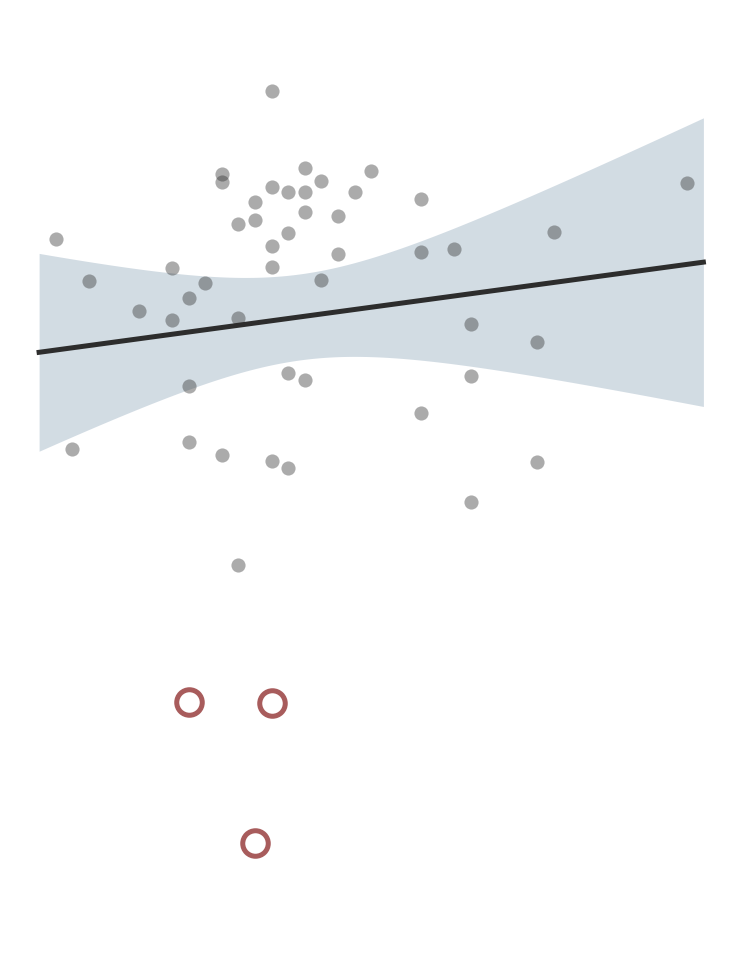
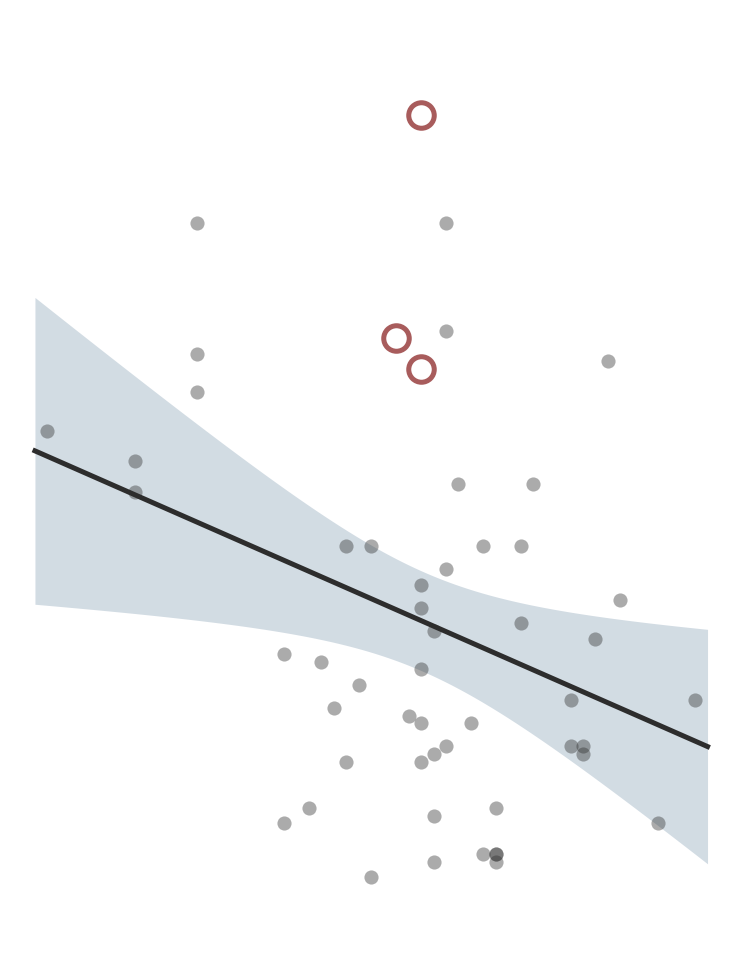
midterm-finishing: worked example on the critics'-score question, X = director's age when the game came out; from econ-lecture-material 1e3880f

diff --git a/midterm-finishing/index.html b/midterm-finishing/index.html
@@ -1,7 +1,7 @@
 <!doctype html>
 <html lang="en">
 <head>
-<meta name="deck-build" content="public; speaker notes removed by strip_notes.py; out=a6a7ef0a42e34b178bf31933927b82fd">
+<meta name="deck-build" content="public; speaker notes removed by strip_notes.py; out=ca26870376b5714d156b74afdde64088">
   <meta charset="utf-8">
   <meta name="viewport" content="width=device-width, initial-scale=1.0">
   <title>Finishing Your Midterm</title>
@@ -37,19 +37,19 @@
         <p style="font-size: 12pt; color: var(--muted-color); font-weight: 400; font-style: italic; line-height: 1.8;">Department of Economics<br>Northeastern University</p>
       </div>
     </div>
-    <div style="overflow: hidden;"><img src="figures/figure_000_cover.png" alt="Fifty-one films based on video games: director’s age against worldwide gross on a log scale, a nearly flat fitted line inside a wide confidence band, and three ringed films far below the rest that barely opened" style="width: 100%; height: 100%; object-fit: cover;"></div>
+    <div style="overflow: hidden;"><img src="figures/figure_000_cover.png" alt="Fifty-one films based on video games: director’s age when the game came out against the critics’ score, a fitted line tilting down inside a wide confidence band, and the films reviewed fewer than 20 times ringed" style="width: 100%; height: 100%; object-fit: cover;"></div>
   </div>
 </section>
 <section id="plan" style="padding: 40px 50px;">
 <h2><i class="fa-solid fa-list-check" style="color: var(--secondary-color);"></i> Today: One Small Project, Start to Finish</h2>
 
 <div class="content">
-<p class="text-lg" style="line-height: 1.6;">One question, worked the way your midterm asks: <strong>do video-game movies by older directors earn more at the box office?</strong> Real data, every step in a notebook you can open tonight.</p>
+<p class="text-lg" style="line-height: 1.6;">One question, worked the way your midterm asks: <strong>are video-game movies rated better when the director was young when the game came out?</strong> The hypothesis: those directors grew up playing it. Real data, every step in a notebook you can open tonight.</p>
 <div style="display: grid; grid-template-columns: 1fr 1fr; gap: 12px; margin-top: 14px;">
 <div class="line-card"><p class="n">1</p><p><strong>Where it comes from</strong><br/>a Wikipedia table, Wikidata, FRED</p></div>
 <div class="line-card"><p class="n">2</p><p><strong>Its shape</strong><br/>one row is a film, but the title is not the key</p></div>
-<div class="line-card"><p class="n">3</p><p><strong>What is missing</strong><br/>budgets, birth dates, and runs not over yet</p></div>
-<div class="line-card"><p class="n">4</p><p><strong>The one join</strong><br/>films to directors, a merge that runs and loses rows</p></div>
+<div class="line-card"><p class="n">3</p><p><strong>What is missing</strong><br/>scores, birth dates, and 2026 reviews still coming in</p></div>
+<div class="line-card"><p class="n">4</p><p><strong>The joins</strong><br/>films to directors and to games: a merge that runs and loses rows</p></div>
 </div>
 <p style="font-size: 14.5pt; color: var(--muted-color); margin-top: 16px;">Then the same example through the rubric, Sections 1 to 5. Then your own file, with the report template and this notebook beside it.</p>
 </div>
@@ -89,13 +89,13 @@
 <h2><i class="fa-solid fa-file-csv" style="color: var(--secondary-color);"></i> Worked Example: The First Read of the Download</h2>
 <div class="cell" data-cell="m_l1_read"><div class="cell-code"><span class="cell-run"><i class="fa-solid fa-circle-play"></i></span><pre style="font-size:11.5pt">raw = pd.read_csv(&quot;data/films_wikipedia.csv&quot;)
 print(raw.shape)
-print(raw[&quot;Budget&quot;].dtype)
-print(raw[[&quot;Title&quot;, &quot;Budget&quot;, &quot;Worldwide box office&quot;]].head(3).to_string(index=False))</pre></div><div class="cell-out fragment"><pre style="font-size:11.5pt">(68, 12)
+print(raw[&quot;Rotten Tomatoes&quot;].dtype)
+print(raw[[&quot;Title&quot;, &quot;Rotten Tomatoes&quot;, &quot;Budget&quot;]].head(3).to_string(index=False))</pre></div><div class="cell-out fragment"><pre style="font-size:11.5pt">(68, 12)
 str
-            Title            Budget Worldwide box office
-Super Mario Bros. $42–48 million[2]       $20,929,518[3]
-    Double Dragon   $7.8 million[6]        $2,341,309[7]
-   Street Fighter   $35 million[10]      $99,433,436[11]</pre></div></div><div class="fragment fade-up key-result" style="margin-top: 12px;"><p style="font-size: 14.5pt;">It reads on the first try, and the money is <strong>text</strong>: “$42–48 million[2]”. Ranges, commas and footnote marks have to become numbers before anything else.</p></div>
+            Title      Rotten Tomatoes            Budget
+Super Mario Bros.  26% (46 reviews)[4] $42–48 million[2]
+    Double Dragon  12% (17 reviews)[8]   $7.8 million[6]
+   Street Fighter 17% (63 reviews)[12]   $35 million[10]</pre></div></div><div class="fragment fade-up key-result" style="margin-top: 12px;"><p style="font-size: 14.5pt;">It reads on the first try, and the outcome is <strong>text</strong>: “26% (46 reviews)[4]”. The score, the number of reviews and the footnote have to be split apart before anything else.</p></div>
 <p class="syn">Real data: Wikipedia’s list of films based on video games, Wikidata, FRED. Code and output: <code>midterm-example-movies.ipynb</code></p>
 </section>
 <section id="l1-write" style="padding: 32px 50px;">
@@ -105,7 +105,7 @@ print(&quot;source:&quot;, SOURCE_URL)
 print(&quot;downloaded:&quot;, raw[&quot;retrieved&quot;].iloc[0])
 print(&quot;data/:&quot;, sorted(os.listdir(&quot;data&quot;)))</pre></div><div class="cell-out fragment"><pre style="font-size:11.5pt">source: https://en.wikipedia.org/wiki/List_of_films_based_on_video_games
 downloaded: 2026-11-03
-data/: [&#x27;cpi_fred.csv&#x27;, &#x27;directors_wikidata.csv&#x27;, &#x27;films_wikipedia.csv&#x27;]</pre></div></div><div class="fragment fade-up " style="background: #f8f6f3; border-left: 4px solid var(--accent-color); padding: 12px 20px; border-radius: 6px; margin-top: 10px;"><p style="font-size: 12pt; color: var(--accent-color); text-transform: uppercase; letter-spacing: 2px;">Line 1, as you would post it</p><p style="font-size: 14.5pt; margin-top: 6px;">Wikipedia, “List of films based on video games” (live-action and animated tables; each budget and gross cites Box Office Mojo or The Numbers), downloaded 2026-11-03; directors’ birth dates from Wikidata; CPI-U (CPIAUCSL) from FRED. The download step is <code>get_data.py</code> in the repository.</p></div><p class="fragment fade-up" style="font-size: 14.5pt; margin-top: 12px;">A Wikipedia page changes every week: the date says which version. And each number on it cites a trade source, which is why it is usable at all.</p></div>
+data/: [&#x27;cpi_fred.csv&#x27;, &#x27;directors_wikidata.csv&#x27;, &#x27;films_wikipedia.csv&#x27;, &#x27;games_wikipedia.csv&#x27;]</pre></div></div><div class="fragment fade-up " style="background: #f8f6f3; border-left: 4px solid var(--accent-color); padding: 12px 20px; border-radius: 6px; margin-top: 10px;"><p style="font-size: 12pt; color: var(--accent-color); text-transform: uppercase; letter-spacing: 2px;">Line 1, as you would post it</p><p style="font-size: 14.5pt; margin-top: 6px;">Wikipedia, “List of films based on video games” (live-action and animated tables; each score cites Rotten Tomatoes, each budget Box Office Mojo or The Numbers), downloaded 2026-11-03; directors’ birth dates from Wikidata; CPI-U (CPIAUCSL) from FRED. The download step is <code>get_data.py</code> in the repository.</p></div><p class="fragment fade-up" style="font-size: 14.5pt; margin-top: 12px;">A Wikipedia page changes every week: the date says which version. And each number on it cites its source, which is why it is usable at all.</p></div>
 <p class="syn">Real data: Wikipedia’s list of films based on video games, Wikidata, FRED. Code and output: <code>midterm-example-movies.ipynb</code></p>
 </section>
 <section id="divider-2" class="section-divider" data-state="is-section-divider"><h1>Line 2 &middot; Its Shape</h1><p class="subtitle">Rows, columns, and what one row is &nbsp;&bull;&nbsp; 8 min</p></section>
@@ -124,48 +124,53 @@ Street Fighter  2026</pre></div></div><div class="fragment fade-up key-result" s
 <p class="syn">Real data: Wikipedia’s list of films based on video games, Wikidata, FRED. Code and output: <code>midterm-example-movies.ipynb</code></p>
 </section>
 <section id="l2-dollars" style="padding: 26px 46px;">
-<h2><i class="fa-solid fa-dollar-sign" style="color: var(--secondary-color);"></i> Text to Dollars: One Unit System</h2>
-<div class="cell" data-cell="m_l2_dollars"><div class="cell-code"><span class="cell-run"><i class="fa-solid fa-circle-play"></i></span><pre style="font-size:12.5pt">for text in [&quot;$42–48 million[2]&quot;, &quot;$1,360,783,214[306]&quot;, &quot;£2.3 million[285]&quot;]:
-    print(f&quot;{text:22} -&gt; {to_dollars(text):,.0f}&quot;)</pre></div><div class="cell-out fragment"><pre style="font-size:12.5pt">$42–48 million[2]      -&gt; 45,000,000
-$1,360,783,214[306]    -&gt; 1,360,783,214
-£2.3 million[285]      -&gt; nan</pre></div></div><div class="fragment fade-up misconception" style="margin-top: 12px;"><p style="font-size: 14.5pt;"><strong>One budget is in pounds</strong> (Moshi Monsters). Read as dollars it would be wrong by a third; it is set to missing on purpose, and line 3 counts it.</p></div>
+<h2><i class="fa-solid fa-percent" style="color: var(--secondary-color);"></i> Text to Numbers: the Score, the Reviews, the Dollars</h2>
+<div class="cell" data-cell="m_l2_rt"><div class="cell-code"><span class="cell-run"><i class="fa-solid fa-circle-play"></i></span><pre style="font-size:11.5pt">print(films[[&quot;rt_text&quot;, &quot;rt&quot;, &quot;reviews&quot;]].head(3).to_string(index=False))
+print(films.loc[films[&quot;rt&quot;].isna(), &quot;rt_text&quot;].tolist())</pre></div><div class="cell-out fragment"><pre style="font-size:11.5pt">             rt_text   rt  reviews
+ 26% (46 reviews)[4] 26.0     46.0
+ 12% (17 reviews)[8] 12.0     17.0
+17% (63 reviews)[12] 17.0     63.0
+[&#x27;N/A (2 reviews)[76]&#x27;, &#x27;N/A (1 review)[129]&#x27;, &#x27;N/A (1 review)[289]&#x27;, &#x27;N/A (8 reviews)[310]&#x27;]</pre></div></div><div class="cell" data-cell="m_l2_dollars"><div class="cell-code"><span class="cell-run"><i class="fa-solid fa-circle-play"></i></span><pre style="font-size:11.5pt">for text in [&quot;$42–48 million[2]&quot;, &quot;£2.3 million[285]&quot;]:
+    print(f&quot;{text:20} -&gt; {to_dollars(text):,.0f}&quot;)</pre></div><div class="cell-out fragment"><pre style="font-size:11.5pt">$42–48 million[2]    -&gt; 45,000,000
+£2.3 million[285]    -&gt; nan</pre></div></div><div class="fragment fade-up key-result" style="margin-top: 8px;"><p style="font-size: 14pt;">Keep the <strong>review count</strong> beside the score: 100% from 5 reviews is not 100% from 200. The pound budget is set to missing rather than mixed in as dollars.</p></div>
 <p class="syn">Real data: Wikipedia’s list of films based on video games, Wikidata, FRED. Code and output: <code>midterm-example-movies.ipynb</code></p>
 </section>
 <section id="l2-real" style="padding: 26px 46px;">
 <h2><i class="fa-solid fa-scale-unbalanced" style="color: var(--secondary-color);"></i> Then Every Dollar in 2024 Prices</h2>
 <div class="cell" data-cell="m_l2_real"><div class="cell-code"><span class="cell-run"><i class="fa-solid fa-circle-play"></i></span><pre style="font-size:12pt">mario = df[&quot;title&quot;].str.contains(&quot;Super Mario Bros&quot;)
 show = df.loc[mario, [&quot;title&quot;, &quot;year&quot;]].assign(
-    nominal_m=df[&quot;gross&quot;] / 1e6, real_2024_m=df[&quot;gross_m&quot;])
-print(show.round(1).to_string(index=False))</pre></div><div class="cell-out fragment"><pre style="font-size:12pt">                      title  year  nominal_m  real_2024_m
-          Super Mario Bros.  1993       20.9         45.4
-The Super Mario Bros. Movie  2023     1360.8       1401.0</pre></div></div><div class="fragment fade-up key-result" style="margin-top: 12px;"><p style="font-size: 14.5pt;">Topic 2’s rule: a 1993 dollar is not a 2023 dollar. Joined to FRED’s CPI on release year, every gross and budget is in <strong>2024 prices</strong>.</p></div>
+    budget_nominal_m=df[&quot;budget&quot;] / 1e6, budget_2024_m=df[&quot;budget_m&quot;])
+print(show.round(1).to_string(index=False))</pre></div><div class="cell-out fragment"><pre style="font-size:12pt">                      title  year  budget_nominal_m  budget_2024_m
+          Super Mario Bros.  1993              45.0           97.7
+The Super Mario Bros. Movie  2023             100.0          103.0</pre></div></div><div class="fragment fade-up key-result" style="margin-top: 12px;"><p style="font-size: 14.5pt;">Topic 2’s rule: a 1993 dollar is not a 2023 dollar. Joined to FRED’s CPI on release year, every budget is in <strong>2024 prices</strong> before Section 3 uses it.</p></div>
 <p class="syn">Real data: Wikipedia’s list of films based on video games, Wikidata, FRED. Code and output: <code>midterm-example-movies.ipynb</code></p>
 </section>
 <section id="l2-check" style="padding: 30px 50px;">
 <h2><i class="fa-solid fa-check-double" style="color: var(--secondary-color);"></i> The Check That Proves the Unit</h2>
 <div class="cell" data-cell="m_l2_check"><div class="cell-code"><span class="cell-run"><i class="fa-solid fa-circle-play"></i></span><pre style="font-size:12.5pt">print(df.duplicated([&quot;title&quot;]).sum())
 print(df.duplicated([&quot;title&quot;, &quot;year&quot;]).sum())</pre></div><div class="cell-out fragment"><pre style="font-size:12.5pt">3
-0</pre></div></div><div class="fragment fade-up key-result" style="margin-top: 12px;"><p style="font-size: 15pt;">A check you have never seen fail proves nothing. It fails on the title and passes on title + year, so the zero is evidence.</p></div><div class="fragment fade-up " style="background: #f8f6f3; border-left: 4px solid var(--accent-color); padding: 12px 20px; border-radius: 6px; margin-top: 10px;"><p style="font-size: 12pt; color: var(--accent-color); text-transform: uppercase; letter-spacing: 2px;">Line 2, as you would post it</p><p style="font-size: 14.5pt; margin-top: 6px;">68 rows × 12 columns, one row per film, keyed by title and release year (three titles were remade). Budgets and grosses converted from text to dollars, then to 2024 prices.</p></div>
+0</pre></div></div><div class="fragment fade-up key-result" style="margin-top: 12px;"><p style="font-size: 15pt;">A check you have never seen fail proves nothing. It fails on the title and passes on title + year, so the zero is evidence.</p></div><div class="fragment fade-up " style="background: #f8f6f3; border-left: 4px solid var(--accent-color); padding: 12px 20px; border-radius: 6px; margin-top: 10px;"><p style="font-size: 12pt; color: var(--accent-color); text-transform: uppercase; letter-spacing: 2px;">Line 2, as you would post it</p><p style="font-size: 14.5pt; margin-top: 6px;">68 rows × 12 columns, one row per film, keyed by title and release year (three titles were remade). Scores split into percent and review count; budgets converted from text to dollars, then to 2024 prices.</p></div>
 <p class="syn">Real data: Wikipedia’s list of films based on video games, Wikidata, FRED. Code and output: <code>midterm-example-movies.ipynb</code></p>
 </section>
 <section id="divider-3" class="section-divider" data-state="is-section-divider"><h1>Line 3 &middot; What Is Missing</h1><p class="subtitle">Which columns, how many, and whether it looks random &nbsp;&bull;&nbsp; 8 min</p></section>
 <section id="l3-count" style="padding: 26px 46px;">
 <h2><i class="fa-solid fa-magnifying-glass" style="color: var(--secondary-color);"></i> Count First, Then Ask Where</h2>
-<div style="display: grid; grid-template-columns: 0.9fr 1.1fr; gap: 16px; margin-top: 8px;"><div class="cell" data-cell="m_l3_count"><div class="cell-code"><span class="cell-run"><i class="fa-solid fa-circle-play"></i></span><pre style="font-size:12pt">gaps = df[[&quot;budget&quot;, &quot;gross&quot;, &quot;born&quot;]].isna()
-print(gaps.sum().to_string())</pre></div><div class="cell-out fragment"><pre style="font-size:12pt">budget    7
-gross     1
-born      8</pre></div></div><div class="cell" data-cell="m_l3_where"><div class="cell-code"><span class="cell-run"><i class="fa-solid fa-circle-play"></i></span><pre style="font-size:12pt">print(gaps.groupby(df[&quot;format&quot;]).sum().to_string())</pre></div><div class="cell-out fragment"><pre style="font-size:12pt">             budget  gross  born
-format                          
-animated          6      1     4
-live-action       1      0     4</pre></div></div></div><div class="fragment fade-up key-result" style="margin-top: 10px;"><p style="font-size: 14.5pt;">The count says how much. Grouping the gaps by format says whether they look random: <strong>6 of 7 missing budgets are animated</strong>.</p></div>
+<div style="display: grid; grid-template-columns: 0.9fr 1.1fr; gap: 16px; margin-top: 8px;"><div class="cell" data-cell="m_l3_count"><div class="cell-code"><span class="cell-run"><i class="fa-solid fa-circle-play"></i></span><pre style="font-size:12pt">gaps = df[[&quot;rt&quot;, &quot;born&quot;, &quot;budget&quot;]].isna()
+print(gaps.sum().to_string())</pre></div><div class="cell-out fragment"><pre style="font-size:12pt">rt        4
+born      8
+budget    7</pre></div></div><div class="cell" data-cell="m_l3_where"><div class="cell-code"><span class="cell-run"><i class="fa-solid fa-circle-play"></i></span><pre style="font-size:12pt">print(gaps.groupby(df[&quot;format&quot;]).sum().to_string())</pre></div><div class="cell-out fragment"><pre style="font-size:12pt">             rt  born  budget
+format                       
+animated      2     4       6
+live-action   2     4       1</pre></div></div></div><div class="fragment fade-up key-result" style="margin-top: 10px;"><p style="font-size: 14.5pt;">The count says how much. Grouping the gaps by format says whether they look random: the budgets clearly are not, <strong>6 of 7 are animated</strong>.</p></div>
 <p class="syn">Real data: Wikipedia’s list of films based on video games, Wikidata, FRED. Code and output: <code>midterm-example-movies.ipynb</code></p>
 </section>
 <section id="l3-random" style="padding: 26px 46px;">
 <h2><i class="fa-solid fa-shuffle" style="color: var(--secondary-color);"></i> Random or Not: Three Gaps, Three Labels</h2>
-<div class="cell" data-cell="m_l3_random"><div class="cell-code"><span class="cell-run"><i class="fa-solid fa-circle-play"></i></span><pre style="font-size:12pt">no_birth = df[&quot;born&quot;].isna().rename(&quot;birth date missing&quot;)
-print(df.groupby(no_birth)[&quot;gross_m&quot;].median().round(1).to_string())</pre></div><div class="cell-out fragment"><pre style="font-size:12pt">birth date missing
-False    152.0
-True       2.5</pre></div></div><div style="display: grid; grid-template-columns: repeat(3, 1fr); gap: 12px; margin-top: 12px;"><div class="fragment fade-up mech"><p class="m">MAR</p><p><strong>Budget.</strong> Missing for animated spin-offs. The gap depends on something you can see: the format.</p></div><div class="fragment fade-up mech"><p class="m">MAR on gross</p><p><strong>Director’s age.</strong> Missing for unknown directors of tiny films: not random, it tracks gross. MNAR on age itself can’t be tested.</p></div><div class="fragment fade-up mech"><p class="m">Rule</p><p><strong>2026 grosses</strong> are not missing; they are not finished. A written rule drops them.</p></div></div>
+<div class="cell" data-cell="m_l3_random"><div class="cell-code"><span class="cell-run"><i class="fa-solid fa-circle-play"></i></span><pre style="font-size:11.5pt">print(df.loc[df[&quot;rt&quot;].isna(), [&quot;title&quot;, &quot;rt_text&quot;, &quot;gross_m&quot;]].round(1).to_string(index=False))</pre></div><div class="cell-out fragment"><pre style="font-size:11.5pt">         title              rt_text  gross_m
+       Far Cry  N/A (2 reviews)[76]      1.1
+  Dead Trigger  N/A (1 review)[129]      0.2
+Heavenly Sword  N/A (1 review)[289]      NaN
+     Scarygirl N/A (8 reviews)[310]      1.2</pre></div></div><div style="display: grid; grid-template-columns: repeat(3, 1fr); gap: 12px; margin-top: 12px;"><div class="fragment fade-up mech"><p class="m">MAR on reviews</p><p><strong>Score.</strong> None below Rotten Tomatoes’ review floor: it depends on the review count. MNAR in the score itself can’t be tested.</p></div><div class="fragment fade-up mech"><p class="m">MAR on format</p><p><strong>Director’s age.</strong> Five rated films, median score 43 vs 29: not random. Two are animated; the model holds format fixed.</p></div><div class="fragment fade-up mech"><p class="m">Rule</p><p><strong>2026 scores</strong> are not missing; they are not finished. A written rule drops them.</p></div></div>
 <p class="syn">Real data: Wikipedia’s list of films based on video games, Wikidata, FRED. Code and output: <code>midterm-example-movies.ipynb</code></p>
 </section>
 <section id="l3-dropna" style="padding: 30px 50px;">
@@ -173,11 +178,11 @@ True       2.5</pre></div></div><div style="display: grid; grid-template-columns
 <div class="cell" data-cell="m_l3_dropna"><div class="cell-code"><span class="cell-run"><i class="fa-solid fa-circle-play"></i></span><pre style="font-size:12.5pt">print(len(df), &quot;-&gt;&quot;, len(sample))
 out = df.loc[~df.index.isin(sample.index)]
 print(out[&quot;format&quot;].value_counts().to_string())
-print((out[&quot;year&quot;] &gt; 2025).sum(), &quot;of them are 2026 releases&quot;)</pre></div><div class="cell-out fragment"><pre style="font-size:12.5pt">68 -&gt; 51
+print((out[&quot;year&quot;] &gt; 2025).sum(), &quot;of them are 2026 releases&quot;)</pre></div><div class="cell-out fragment"><pre style="font-size:12.5pt">68 -&gt; 53
 format
-live-action    9
-animated       8
-6 of them are 2026 releases</pre></div></div><div class="fragment fade-up " style="background: #f8f6f3; border-left: 4px solid var(--accent-color); padding: 12px 20px; border-radius: 6px; margin-top: 10px;"><p style="font-size: 12pt; color: var(--accent-color); text-transform: uppercase; letter-spacing: 2px;">Line 3, as you would post it</p><p style="font-size: 14.5pt; margin-top: 6px;">Missing: 7 budgets (6 of them animated, one of those given in pounds), 1 gross, 8 directors’ birth dates. Animated gaps are MAR given format; birth dates are missing for the smallest films, so the sample of 51 leans toward bigger releases. 2026 films are dropped by rule.</p></div>
+live-action    10
+animated        5
+6 of them are 2026 releases</pre></div></div><div class="fragment fade-up " style="background: #f8f6f3; border-left: 4px solid var(--accent-color); padding: 12px 20px; border-radius: 6px; margin-top: 10px;"><p style="font-size: 12pt; color: var(--accent-color); text-transform: uppercase; letter-spacing: 2px;">Line 3, as you would post it</p><p style="font-size: 14.5pt; margin-top: 6px;">Missing: 4 scores (below the review floor: MAR given the review count, MNAR untestable), 8 directors’ birth dates (MAR given format), 7 budgets (6 of them animated), used only in Section 3. 2026 films are dropped by rule. The sample is 53 films; a missing budget does not drop a film.</p></div>
 <p class="syn">Real data: Wikipedia’s list of films based on video games, Wikidata, FRED. Code and output: <code>midterm-example-movies.ipynb</code></p>
 </section>
 <section id="divider-4" class="section-divider" data-state="is-section-divider"><h1>Line 4 &middot; The One Join or Reshape</h1><p class="subtitle">Merging two files, wide to long, aggregating &mdash; or none &nbsp;&bull;&nbsp; 8 min</p></section>
@@ -213,8 +218,8 @@ right_only     0
 print(df.shape)
 print(&quot;unmatched:&quot;, (~df[&quot;first_director&quot;].isin(directors[&quot;director&quot;])).sum(),
       &quot;| no birth date:&quot;, df[&quot;born&quot;].isna().sum())</pre></div><div class="cell-out fragment"><pre style="font-size:11.5pt">Rocky Morton
-(68, 22)
-unmatched: 6 | no birth date: 8</pre></div></div><div class="fragment fade-up " style="background: #f8f6f3; border-left: 4px solid var(--accent-color); padding: 12px 20px; border-radius: 6px; margin-top: 10px;"><p style="font-size: 12pt; color: var(--accent-color); text-transform: uppercase; letter-spacing: 2px;">Line 4, as you would post it</p><p style="font-size: 14.5pt; margin-top: 6px;">Merged 68 films to Wikidata birth dates on the first-listed director (co-directors were glued in the source table). 68 rows before, 68 after (a left merge, validated many-to-one), 6 unmatched, 2 more without a birth date. Then the CPI on release year: 68 of 68 matched.</p></div>
+(68, 27)
+unmatched: 6 | no birth date: 8</pre></div></div><div class="fragment fade-up " style="background: #f8f6f3; border-left: 4px solid var(--accent-color); padding: 12px 20px; border-radius: 6px; margin-top: 10px;"><p style="font-size: 12pt; color: var(--accent-color); text-transform: uppercase; letter-spacing: 2px;">Line 4, as you would post it</p><p style="font-size: 14.5pt; margin-top: 6px;">Merged 68 films to Wikidata birth dates on the first-listed director (co-directors were glued in the source table). 68 rows before, 68 after (a left merge, validated many-to-one), 6 unmatched, 2 more without a birth date. Then the game years on title + year (validated one-to-one): 66 of 68 matched. X = game year − birth year.</p></div>
 <p class="syn">Real data: Wikipedia’s list of films based on video games, Wikidata, FRED. Code and output: <code>midterm-example-movies.ipynb</code></p>
 </section>
 <section id="divider-5" class="section-divider" data-state="is-section-divider"><h1>What Each Rubric Row Is Looking For</h1><p class="subtitle">Six rows, 100 points, on the same example &nbsp;&bull;&nbsp; 15 min</p></section>
@@ -226,16 +231,16 @@ unmatched: 6 | no birth date: 8</pre></div></div><div class="fragment fade-up " 
 <section id="r-sections-1-2" style="padding: 24px 46px;">
 <h2><i class="fa-solid fa-chart-simple" style="color: var(--secondary-color);"></i> Sections 1 and 2: The Table and the Caption</h2>
 
-<div style="display: grid; grid-template-columns: 0.95fr 1.05fr; gap: 18px; margin-top: 8px;">
+<div style="display: grid; grid-template-columns: 1.05fr 0.95fr; gap: 16px; margin-top: 8px;">
 <div>
-<table class="sumtab"><thead><tr><th>Variable (unit)</th><th>Mean</th><th>SD</th><th>Min</th><th>Max</th></tr></thead><tbody><tr><td>Worldwide gross ($m, 2024)</td><td>232.1</td><td>243.7</td><td>0.2</td><td>1,401.0</td></tr><tr><td>Budget ($m, 2024)</td><td>85.7</td><td>58.9</td><td>7.5</td><td>251.7</td></tr><tr><td>Director&#x27;s age at release (years)</td><td>44.7</td><td>7.7</td><td>30.0</td><td>68.0</td></tr><tr><td>Release year</td><td>2011.6</td><td>8.9</td><td>1993</td><td>2025</td></tr></tbody></table>
-<p style="font-size: 12pt; color: var(--muted-color); margin-top: 6px;">n = 51 films, 1993–2025, after the sample rule.</p>
-<p class="fragment fade-up" style="font-size: 13.5pt; margin-top: 10px;">Units and prices in the row names, the sample under the table. Gross is skewed (2.35), so the model uses its log.</p>
+<table class="sumtab" style="font-size: 11.5pt;"><thead><tr><th>Variable (unit)</th><th>Mean</th><th>Median</th><th>Min</th><th>Max</th><th>N</th></tr></thead><tbody><tr><td>Rotten Tomatoes score (% positive reviews)</td><td>34.2</td><td>29.0</td><td>1.0</td><td>100.0</td><td>53</td></tr><tr><td>Reviews counted</td><td>134.3</td><td>120.0</td><td>5.0</td><td>327.0</td><td>53</td></tr><tr><td>Director&#x27;s age when the game came out (years)</td><td>31.2</td><td>32.0</td><td>1.0</td><td>53.0</td><td>53</td></tr><tr><td>Director&#x27;s age at release (years)</td><td>45.0</td><td>44.0</td><td>30.0</td><td>68.0</td><td>53</td></tr><tr><td>Release year</td><td>2011.8</td><td>2012</td><td>1993</td><td>2025</td><td>53</td></tr><tr><td>Budget ($m, 2024)</td><td>86.5</td><td>74.4</td><td>7.5</td><td>251.7</td><td>50</td></tr></tbody></table>
+<p style="font-size: 12pt; color: var(--muted-color); margin-top: 6px;">53 films, 1993–2025, after the sample rule; budgets only where reported in dollars.</p>
+<p class="fragment fade-up" style="font-size: 13pt; margin-top: 8px;">Median beside mean for a skewed outcome: the typical film scores <strong>29%</strong>, below the mean of 34.2%. N per row, since budgets are missing for some.</p>
 </div>
 <div>
-<img alt="Scatter of worldwide gross on a log scale against the director's age at release, 51 films based on video games: no visible slope" src="figures/movies_age_gross.png" style="width: 100%; max-height: 320px; object-fit: contain; border: 1px solid #eee;"/>
-<p class="fragment fade-up cap bad">× “Director age and box office.”</p>
-<p class="fragment fade-up cap good">✓ “Across directors aged 30 to 68, grosses show no visible trend with age.”</p>
+<img alt="Scatter of Rotten Tomatoes score against the director's age when the game came out, 53 films based on video games: the cloud tilts down" src="figures/movies_age_rt.png" style="width: 100%; max-height: 300px; object-fit: contain; border: 1px solid #eee;"/>
+<p class="fragment fade-up cap bad">× “Age when the game came out and Rotten Tomatoes score.”</p>
+<p class="fragment fade-up cap good">✓ “Directors who were younger when the game came out made better-reviewed films, before any controls.”</p>
 </div>
 </div>
 <p class="syn">Real data: Wikipedia’s list of films based on video games, Wikidata, FRED. Code and output: <code>midterm-example-movies.ipynb</code></p>
@@ -245,13 +250,13 @@ unmatched: 6 | no birth date: 8</pre></div></div><div class="fragment fade-up " 
 
 <div style="display: grid; grid-template-columns: 0.9fr 1.1fr; gap: 18px; margin-top: 8px;">
 <div>
-<table class="regtab"><thead><tr><th></th><th>(2) Main</th><th>(3) + budget</th></tr></thead><tbody><tr><td>Director’s age (years)</td><td>0.024<br/><span>(0.027)</span></td><td>-0.028<br/><span>(0.022)</span></td></tr><tr><td>Release year</td><td>0.033<br/><span>(0.024)</span></td><td>0.049<br/><span>(0.021)</span></td></tr><tr><td>Animated (0/1)</td><td>0.683<br/><span>(0.717)</span></td><td>0.039<br/><span>(0.453)</span></td></tr><tr><td>log budget</td><td></td><td>1.571<br/><span>(0.294)</span></td></tr><tr><td>Constant</td><td>-62.267<br/><span>(48.203)</span></td><td>-98.586<br/><span>(41.966)</span></td></tr><tr class="foot"><td>N</td><td>51</td><td>51</td></tr><tr class="foot"><td>R²</td><td>0.06</td><td>0.45</td></tr></tbody></table>
-<p style="font-size: 11pt; color: var(--muted-color); margin-top: 4px;">OLS of log worldwide gross (2024 prices); robust (HC1) standard errors in parentheses.</p>
+<table class="regtab"><thead><tr><th></th><th>(1) Age only</th><th>(2) Main</th></tr></thead><tbody><tr><td>Age when the game came out</td><td>-0.71<br/><span>(0.23)</span></td><td>-0.29<br/><span>(0.26)</span></td></tr><tr><td>Release year</td><td></td><td>1.07<br/><span>(0.34)</span></td></tr><tr><td>Animated (0/1)</td><td></td><td>25.18<br/><span>(9.27)</span></td></tr><tr><td>Constant</td><td>56.37<br/><span>(7.91)</span></td><td>-2119.11<br/><span>(688.86)</span></td></tr><tr class="foot"><td>N</td><td>53</td><td>53</td></tr><tr class="foot"><td>R²</td><td>0.10</td><td>0.39</td></tr></tbody></table>
+<p style="font-size: 11pt; color: var(--muted-color); margin-top: 4px;">OLS of the Rotten Tomatoes score (% positive reviews); robust (HC1) standard errors in parentheses.</p>
 </div>
 <div>
-<p class="fragment fade-up interp">“Holding year and format fixed, a director <strong>one year older</strong> goes with a gross <strong>2.4% higher</strong> (95% CI -3.0% to +8.0%): this sample cannot rule out no association.”</p>
-<p class="fragment fade-up interp">“An animated film grosses about <strong>98% more</strong> than a live-action one of the same year and director age.”</p>
-<p class="fragment fade-up interp role">Role of budget: older directors get <strong>3.3% bigger budgets</strong> per year, and budget raises gross. It is a mediator, a bad control (Topic 10). With it, the point estimate on age is <strong>-2.7%</strong>; neither estimate is distinguishable from zero.</p>
+<p class="fragment fade-up interp">“Holding year and format fixed, a director <strong>ten years younger when the game came out</strong> goes with a score <strong>2.9 points higher</strong> (95% CI -2.3 to +8.0): the predicted sign, but the data do not decide.”</p>
+<p class="fragment fade-up interp">“A film released <strong>one year later</strong> scores <strong>1.07 points higher</strong>, holding age and format fixed, and this interval excludes zero.”</p>
+<p class="fragment fade-up interp role">Release year is the confounder: age alone is <strong>-0.71</strong> (CI excludes 0); recent films adapt games their directors met younger (34.5 → 26.8). Holding year fixed: <strong>-0.29</strong>, CI includes 0.</p>
 </div>
 </div>
 <p class="syn">Real data: Wikipedia’s list of films based on video games, Wikidata, FRED. Code and output: <code>midterm-example-movies.ipynb</code></p>
@@ -259,10 +264,10 @@ unmatched: 6 | no birth date: 8</pre></div></div><div class="fragment fade-up " 
 <section id="r-dag" style="padding: 24px 46px;">
 <h2><i class="fa-solid fa-diagram-project" style="color: var(--secondary-color);"></i> Draw It First: Which Controls, and Why</h2>
 
-<div style="width: 100%; max-width: 860px; margin: 4px auto 0;"><svg viewBox="0 0 900 340" xmlns="http://www.w3.org/2000/svg" style="width:100%; display:block;" role="img" aria-label="Causal graph: release year and format point into age and gross; age to budget to gross; franchise, unmeasured, points into age and gross"><defs><marker id="dk" viewBox="0 0 10 10" refX="9" refY="5" markerWidth="7" markerHeight="7" orient="auto"><path d="M0 0L10 5L0 10z" fill="#2c3e50"/></marker><marker id="gr" viewBox="0 0 10 10" refX="9" refY="5" markerWidth="7" markerHeight="7" orient="auto"><path d="M0 0L10 5L0 10z" fill="#2E7D32"/></marker><marker id="or" viewBox="0 0 10 10" refX="9" refY="5" markerWidth="7" markerHeight="7" orient="auto"><path d="M0 0L10 5L0 10z" fill="#C26A00"/></marker><marker id="rd" viewBox="0 0 10 10" refX="9" refY="5" markerWidth="7" markerHeight="7" orient="auto"><path d="M0 0L10 5L0 10z" fill="#B3261E"/></marker></defs><line x1="426" y1="177" x2="684" y2="177" stroke="#2c3e50" stroke-width="3.4" marker-end="url(#dk)"/><g class="fragment" data-fragment-index="1"><line x1="172" y1="80" x2="288" y2="149" stroke="#2E7D32" stroke-width="2.6" marker-end="url(#gr)"/><line x1="216" y1="70" x2="684" y2="160" stroke="#2E7D32" stroke-width="2.6" marker-end="url(#gr)"/><line x1="172" y1="274" x2="288" y2="205" stroke="#2E7D32" stroke-width="2.6" marker-end="url(#gr)"/><line x1="216" y1="284" x2="684" y2="194" stroke="#2E7D32" stroke-width="2.6" marker-end="url(#gr)"/></g><g class="fragment" data-fragment-index="2"><line x1="387" y1="149" x2="513" y2="80" stroke="#C26A00" stroke-width="2.6" marker-end="url(#or)"/><line x1="612" y1="80" x2="728" y2="149" stroke="#C26A00" stroke-width="2.6" marker-end="url(#or)"/><text x="662" y="50" font-size="15" fill="#C26A00" font-weight="700">+3.3% budget</text><text x="662" y="69" font-size="15" fill="#C26A00" font-weight="700">per year of age</text></g><g class="fragment" data-fragment-index="3"><line x1="513" y1="274" x2="387" y2="205" stroke="#B3261E" stroke-width="2.6" stroke-dasharray="7 5" marker-end="url(#rd)"/><line x1="612" y1="274" x2="728" y2="205" stroke="#B3261E" stroke-width="2.6" stroke-dasharray="7 5" marker-end="url(#rd)"/></g><rect x="40" y="30" width="170" height="44" rx="10" fill="#fff" stroke="#2E7D32" stroke-width="2.6"/><text x="125.0" y="59" text-anchor="middle" font-size="19" font-weight="700" fill="#2E7D32">Release year</text><rect x="40" y="280" width="170" height="44" rx="10" fill="#fff" stroke="#2E7D32" stroke-width="2.6"/><text x="125.0" y="309" text-anchor="middle" font-size="19" font-weight="700" fill="#2E7D32">Animated</text><rect x="250" y="155" width="170" height="44" rx="10" fill="#fff" stroke="#2c3e50" stroke-width="2.6"/><text x="335.0" y="184" text-anchor="middle" font-size="19" font-weight="700" fill="#2c3e50">Director’s age</text><rect x="690" y="155" width="170" height="44" rx="10" fill="#fff" stroke="#2c3e50" stroke-width="2.6"/><text x="775.0" y="184" text-anchor="middle" font-size="19" font-weight="700" fill="#2c3e50">Worldwide gross</text><g><rect x="480" y="30" width="170" height="44" rx="10" fill="#fff" stroke="#C26A00" stroke-width="2.6"/><text x="565.0" y="59" text-anchor="middle" font-size="19" font-weight="700" fill="#C26A00">Budget</text></g><rect x="480" y="280" width="170" height="44" rx="10" fill="#fff" stroke="#B3261E" stroke-width="2.6" stroke-dasharray="7 5"/><text x="565.0" y="309" text-anchor="middle" font-size="19" font-weight="700" fill="#B3261E">Franchise / sequel</text></svg></div>
+<div style="width: 100%; max-width: 860px; margin: 4px auto 0;"><svg viewBox="0 0 900 340" xmlns="http://www.w3.org/2000/svg" style="width:100%; display:block;" role="img" aria-label="Causal graph: release year and format point into age and the critics score; age to budget to score; franchise, unmeasured, points into age and score"><defs><marker id="dk" viewBox="0 0 10 10" refX="9" refY="5" markerWidth="7" markerHeight="7" orient="auto"><path d="M0 0L10 5L0 10z" fill="#2c3e50"/></marker><marker id="gr" viewBox="0 0 10 10" refX="9" refY="5" markerWidth="7" markerHeight="7" orient="auto"><path d="M0 0L10 5L0 10z" fill="#2E7D32"/></marker><marker id="or" viewBox="0 0 10 10" refX="9" refY="5" markerWidth="7" markerHeight="7" orient="auto"><path d="M0 0L10 5L0 10z" fill="#C26A00"/></marker><marker id="rd" viewBox="0 0 10 10" refX="9" refY="5" markerWidth="7" markerHeight="7" orient="auto"><path d="M0 0L10 5L0 10z" fill="#B3261E"/></marker></defs><line x1="426" y1="177" x2="684" y2="177" stroke="#2c3e50" stroke-width="3.4" marker-end="url(#dk)"/><g class="fragment" data-fragment-index="1"><line x1="172" y1="80" x2="288" y2="149" stroke="#2E7D32" stroke-width="2.6" marker-end="url(#gr)"/><line x1="216" y1="70" x2="684" y2="160" stroke="#2E7D32" stroke-width="2.6" marker-end="url(#gr)"/><line x1="172" y1="274" x2="288" y2="205" stroke="#2E7D32" stroke-width="2.6" marker-end="url(#gr)"/><line x1="216" y1="284" x2="684" y2="194" stroke="#2E7D32" stroke-width="2.6" marker-end="url(#gr)"/></g><g class="fragment" data-fragment-index="2"><line x1="387" y1="149" x2="513" y2="80" stroke="#C26A00" stroke-width="2.6" marker-end="url(#or)"/><line x1="612" y1="80" x2="728" y2="149" stroke="#C26A00" stroke-width="2.6" marker-end="url(#or)"/></g><g class="fragment" data-fragment-index="3"><line x1="513" y1="274" x2="387" y2="205" stroke="#B3261E" stroke-width="2.6" stroke-dasharray="7 5" marker-end="url(#rd)"/><line x1="612" y1="274" x2="728" y2="205" stroke="#B3261E" stroke-width="2.6" stroke-dasharray="7 5" marker-end="url(#rd)"/></g><rect x="40" y="30" width="170" height="44" rx="10" fill="#fff" stroke="#2E7D32" stroke-width="2.6"/><text x="125.0" y="59" text-anchor="middle" font-size="19" font-weight="700" fill="#2E7D32">Release year</text><rect x="40" y="280" width="170" height="44" rx="10" fill="#fff" stroke="#2E7D32" stroke-width="2.6"/><text x="125.0" y="309" text-anchor="middle" font-size="19" font-weight="700" fill="#2E7D32">Animated</text><rect x="250" y="155" width="170" height="44" rx="10" fill="#fff" stroke="#2c3e50" stroke-width="2.6"/><text x="335.0" y="174" text-anchor="middle" font-size="15.5" font-weight="700" fill="#2c3e50">Age when the</text><text x="335.0" y="192" text-anchor="middle" font-size="15.5" font-weight="700" fill="#2c3e50">game came out</text><rect x="690" y="155" width="170" height="44" rx="10" fill="#fff" stroke="#2c3e50" stroke-width="2.6"/><text x="775.0" y="184" text-anchor="middle" font-size="19" font-weight="700" fill="#2c3e50">Critics’ score</text><g><rect x="480" y="30" width="170" height="44" rx="10" fill="#fff" stroke="#C26A00" stroke-width="2.6"/><text x="565.0" y="59" text-anchor="middle" font-size="19" font-weight="700" fill="#C26A00">Budget</text></g><rect x="480" y="280" width="170" height="44" rx="10" fill="#fff" stroke="#B3261E" stroke-width="2.6" stroke-dasharray="7 5"/><text x="565.0" y="309" text-anchor="middle" font-size="19" font-weight="700" fill="#B3261E">Franchise / sequel</text></svg></div>
 <div style="display: grid; grid-template-columns: repeat(3, 1fr); gap: 14px; margin-top: 8px;">
-<p class="fragment fade-up" data-fragment-index="1" style="font-size: 13pt; border-left: 5px solid #2E7D32; padding-left: 10px;"><strong style="color:#2E7D32">Confounders.</strong> Year and format point into both age and gross. Control for them: each blocks a backdoor path.</p>
-<p class="fragment fade-up" data-fragment-index="2" style="font-size: 13pt; border-left: 5px solid #C26A00; padding-left: 10px;"><strong style="color:#C26A00">Mediator.</strong> Age → budget → gross. Leave budget out: it carries part of the effect you are asking about.</p>
+<p class="fragment fade-up" data-fragment-index="1" style="font-size: 13pt; border-left: 5px solid #2E7D32; padding-left: 10px;"><strong style="color:#2E7D32">Confounders.</strong> Year and format point into both age and the score. Control for them: each blocks a backdoor path.</p>
+<p class="fragment fade-up" data-fragment-index="2" style="font-size: 13pt; border-left: 5px solid #C26A00; padding-left: 10px;"><strong style="color:#C26A00">Possible mediator.</strong> Director → budget → score. Leave budget out; here it changes nothing (-0.34 → -0.33).</p>
 <p class="fragment fade-up" data-fragment-index="3" style="font-size: 13pt; border-left: 5px dashed #B3261E; padding-left: 10px;"><strong style="color:#B3261E">Not measured.</strong> Franchise and sequel point into both, and there is no variable for them. That open path is Section 5’s threat.</p>
 </div>
 <p style="font-size: 12pt; color: var(--muted-color); margin-top: 6px;">Not required by the brief. It is the quickest way to write Section 3’s “role of every control” (Topic 10).</p>
@@ -273,10 +278,10 @@ unmatched: 6 | no birth date: 8</pre></div></div><div class="fragment fade-up " 
 
 <p style="font-size: 14pt; color: var(--muted-color);">Model (2), same data; every number is printed by the example notebook’s Section 4 cells.</p>
 <div class="diag-list">
-<div class="fragment fade-up diag"><p class="t">Residuals</p><p>Against fitted values and against age: no fan, no curve. Three films that barely opened sit far below the rest.</p></div>
-<div class="fragment fade-up diag"><p class="t">Constant variance</p><p>Breusch–Pagan p = 0.88: no evidence, but little power with 51 films. Robust (HC1) errors reported.</p></div>
-<div class="fragment fade-up diag"><p class="t">VIF</p><p>All about 1.04: age, year and format barely overlap, so no standard error is inflated.</p></div>
-<div class="fragment fade-up diag"><p class="t">Influence</p><p>Largest Cook’s D: Ratchet & Clank. Without the 3 films under $5m, age goes from 2.4% to 0.1%. Report both.</p></div>
+<div class="fragment fade-up diag"><p class="t">Residuals</p><p>Against fitted values and against age: no curve, no fan; a wide spread throughout.</p></div>
+<div class="fragment fade-up diag"><p class="t">Constant variance</p><p>Breusch–Pagan p = 0.28: no evidence, but little power with 53 films. Robust (HC1) errors reported.</p></div>
+<div class="fragment fade-up diag"><p class="t">VIF</p><p>All about 1.14: age, year and format barely overlap, so no standard error is inflated.</p></div>
+<div class="fragment fade-up diag"><p class="t">Influence + checks</p><p>Top Cook’s D: Resident Evil: Damnation (100% from 5 reviews). Under-20-review films out: -0.34. Median regression: +0.21. Under 20 when the game came out: +24.1 pts, from 6 films.</p></div>
 </div>
 <p class="syn">Real data: Wikipedia’s list of films based on video games, Wikidata, FRED. Code and output: <code>midterm-example-movies.ipynb</code></p>
 </section>
@@ -286,20 +291,21 @@ unmatched: 6 | no birth date: 8</pre></div></div><div class="fragment fade-up " 
 <div style="display: grid; grid-template-columns: 1fr 1fr; gap: 18px; margin-top: 10px;">
 <div>
 <p class="sub-h">Threats and conclusion · 10</p>
-<p class="fragment fade-up tbox">For the age coefficient to be causal, nothing behind who gets hired could also move the gross. Studios give franchise sequels to experienced directors, and sequels earn more.</p>
-<p class="fragment fade-up tbox">So the estimate is <strong>a conditional association</strong>, small and imprecise. Labelled that way, it earns the marks.</p>
-<p class="fragment fade-up tbox">Another month: code franchise and sequel, and count each director’s earlier films.</p>
+<p class="fragment fade-up tbox">The hypothesis is about <strong>having played the game</strong>; age when it came out is a closer stand-in, not a measure. And the “based on” page sets the date.</p>
+<p class="fragment fade-up tbox">The “grew up with it” films are recent franchise films; that path is open. So the estimate is <strong>a conditional association</strong>, small and imprecise.</p>
+<p class="fragment fade-up tbox">Another month: directors’ own gaming history, a franchise flag, audience scores.</p>
 </div>
 <div>
 <p class="sub-h">Repository · 5</p>
 <div class="fragment fade-up readme">
 <pre>README.md
   Question     one sentence
+  Hypothesis   directors who were young when the
+               game came out grew up playing it
   Data         Wikipedia + Wikidata + FRED,
                URLs, downloaded 2026-11-03
-  How to run   python get_data.py (optional),
-               then run the notebook top to bottom
-  Finding      +2.4% per year of age, CI spans 0</pre>
+  How to run   run the notebook top to bottom
+  Finding      +2.9 pts per 10 yrs younger at the game, CI spans 0</pre>
 </div>
 <p style="font-size: 13.5pt; margin-top: 10px;">Conclusion: half a page, how confident a reader should be, what you would do with another month. No new results.</p>
 </div>
